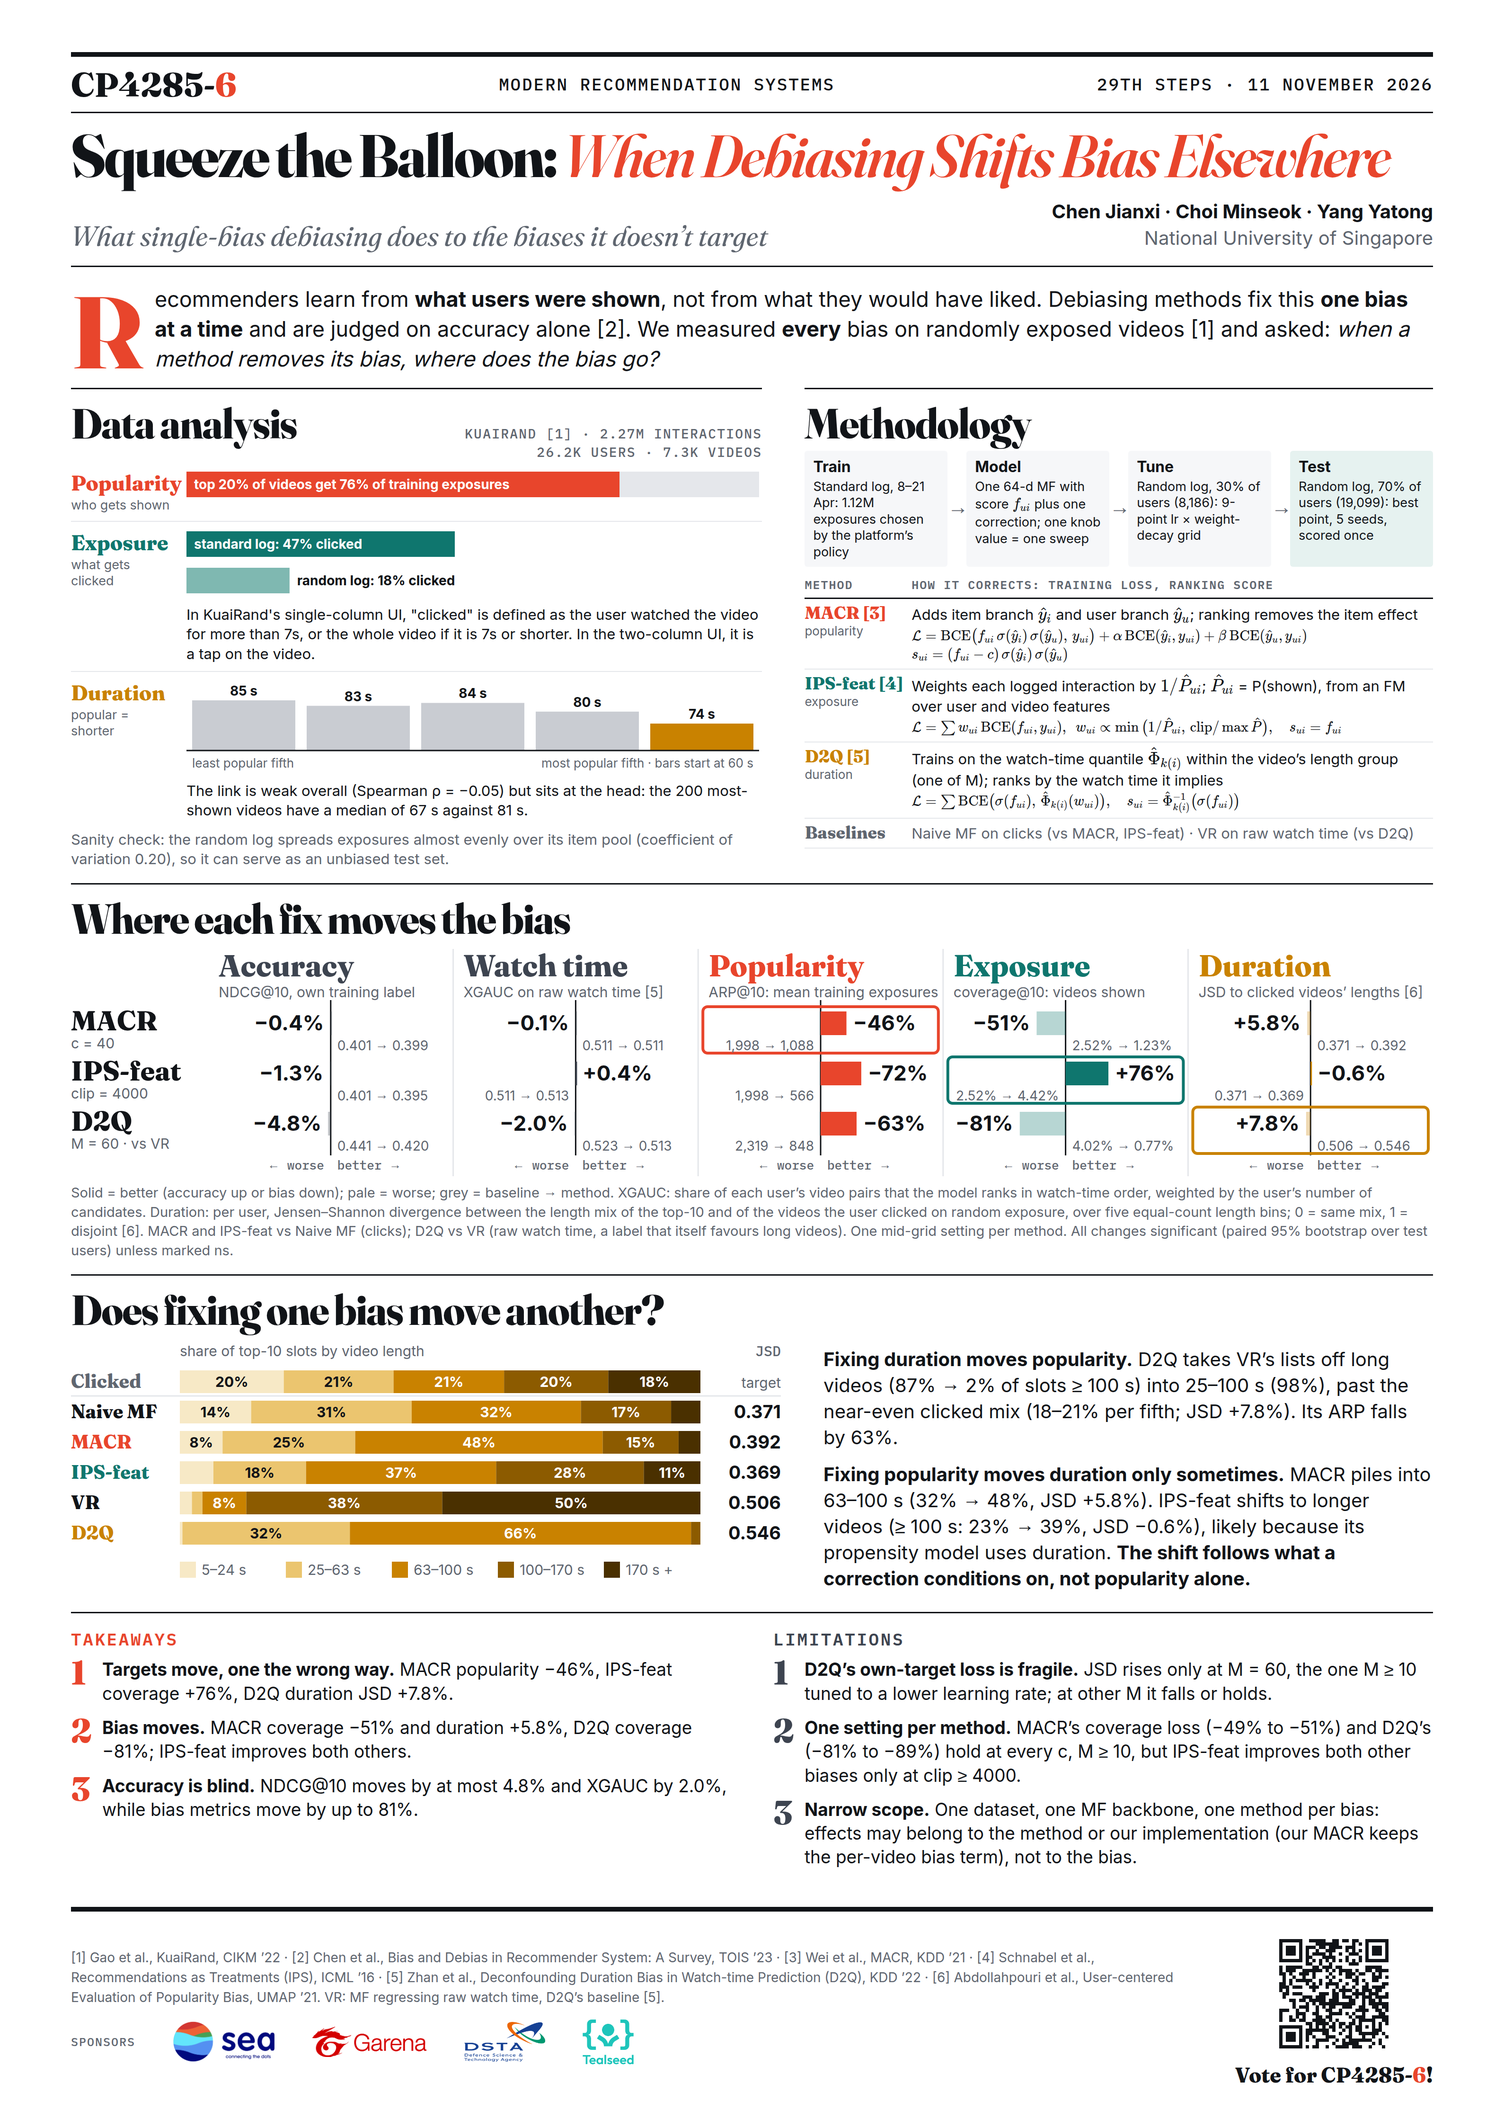
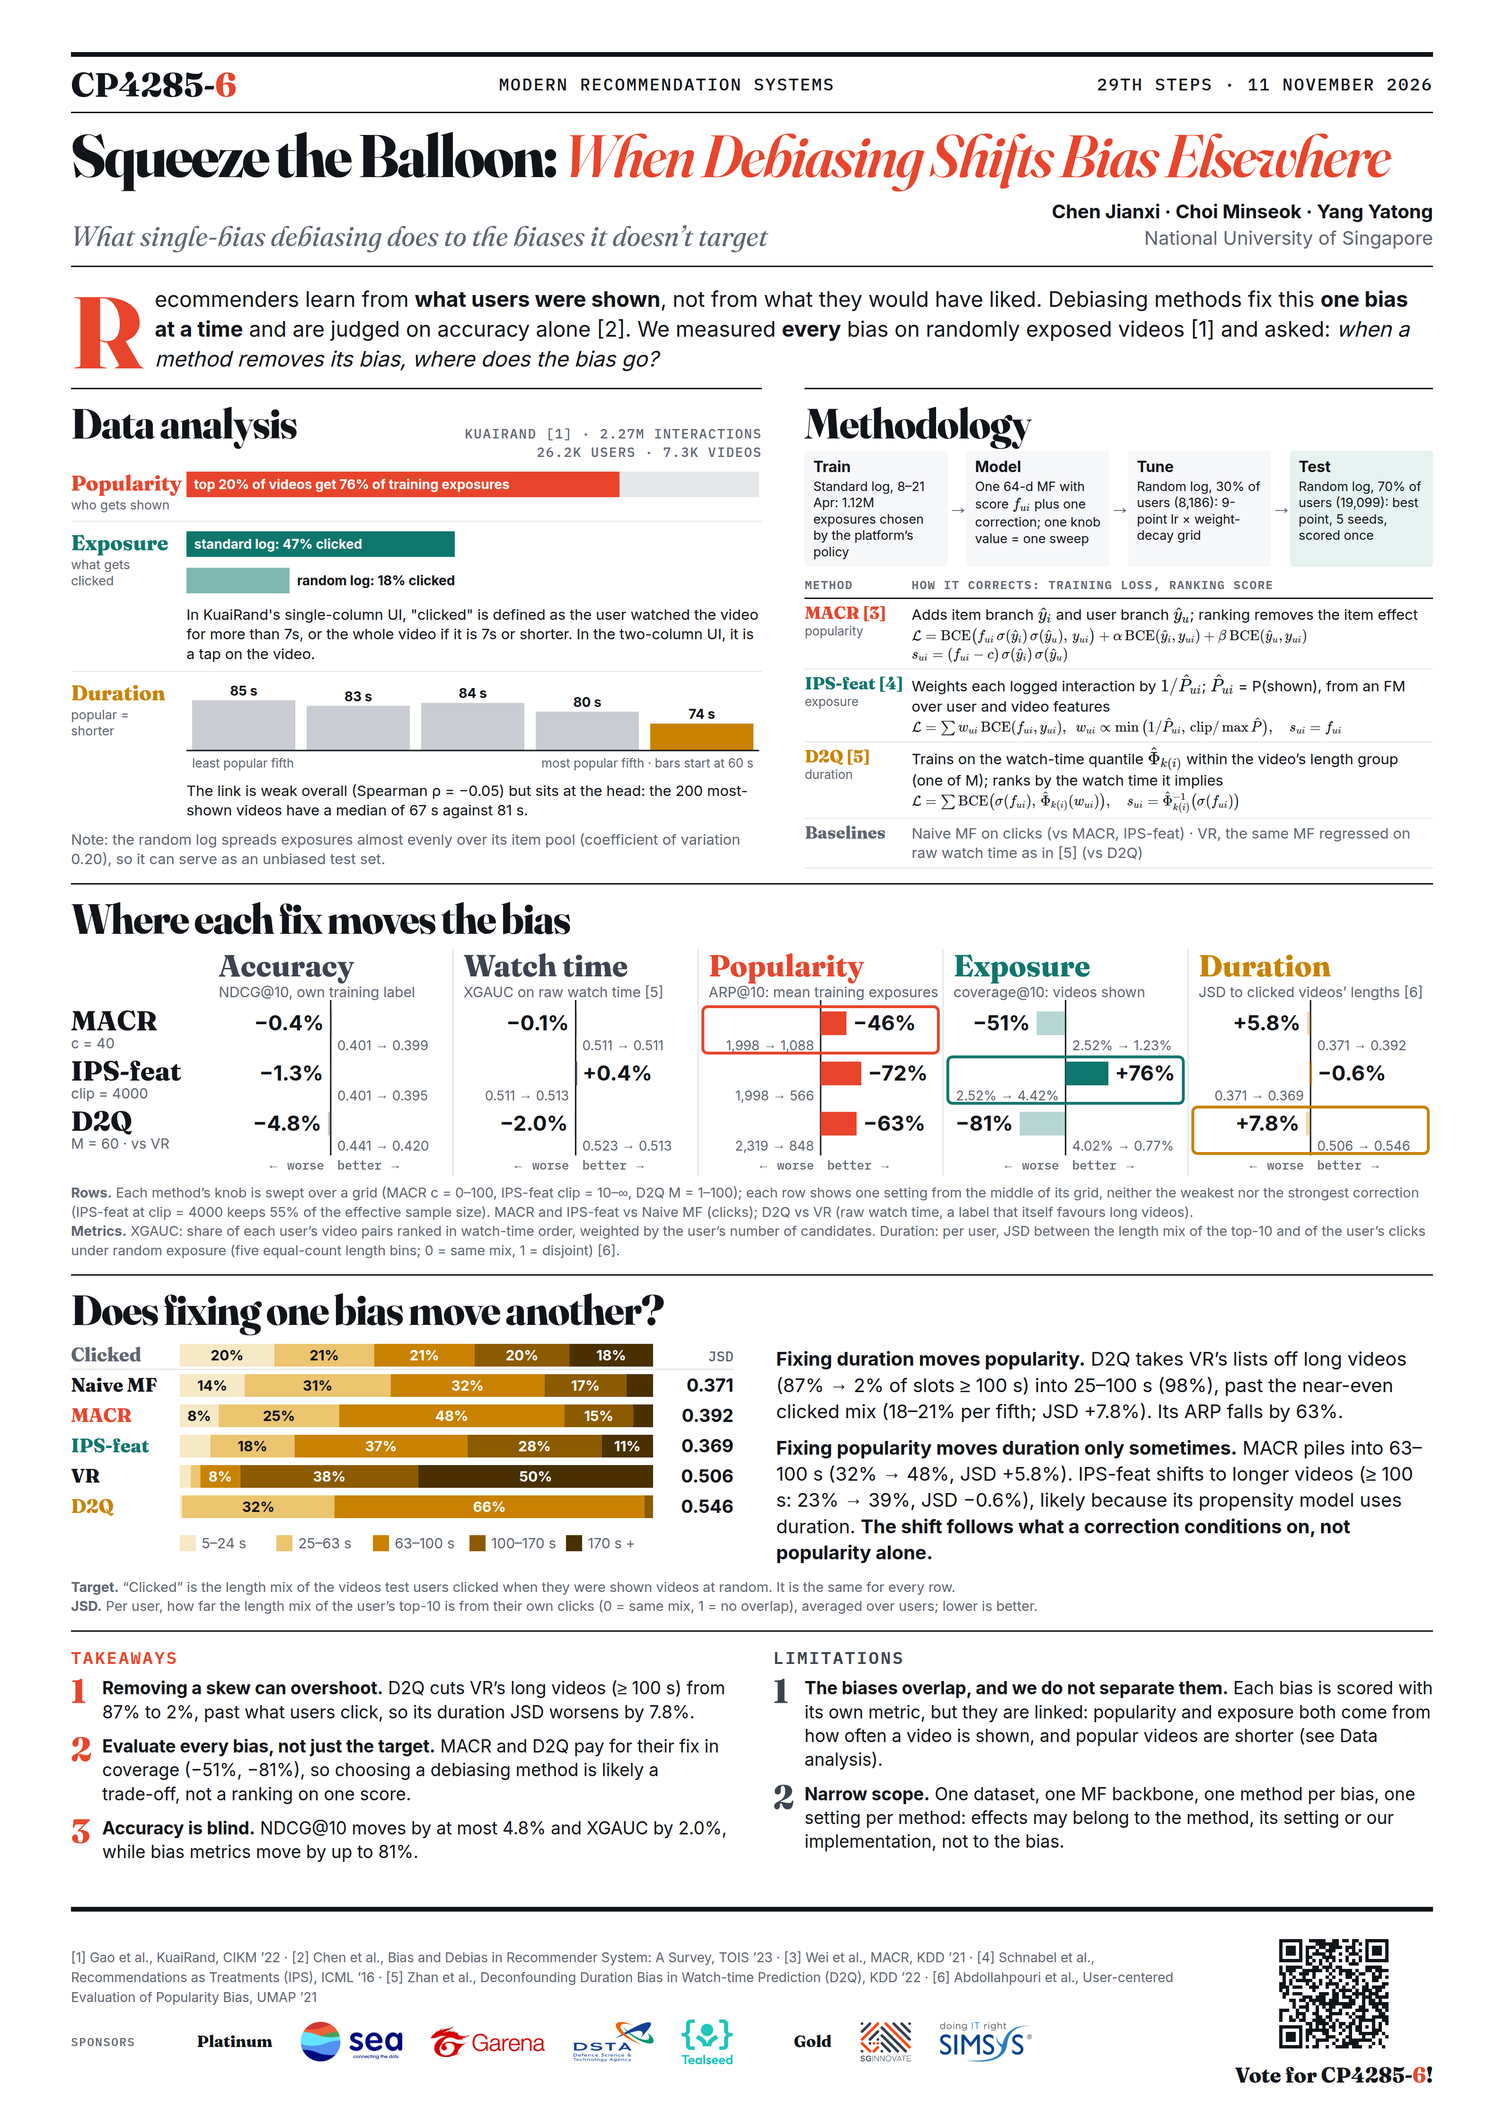
Revise poster captions, takeaways, limitations and sponsors
- Audit: caption split into Rows (knob grids, mid-grid setting) and Metrics.
- RQ3: chart header removed, JSD column label in the Clicked row, Target/JSD caption;
  chart narrowed to 1400px so the section fits.
- Methodology: VR defined in the Baselines row (moved from the footer).
- Takeaways: overshoot (D2Q vs VR) and evaluate-every-bias replace the first two.
- Limitations: bias overlap replaces D2Q fragility; one-setting caveat folded into Narrow scope.
- Footer: Platinum/Gold sponsor tiers, SG Innovate and Simsys logos.
- Data: "Sanity check" note renamed to "Note".
- poster.png re-rendered at 3178x4494.

diff --git a/.presentation/poster/footer.html b/.presentation/poster/footer.html
@@ -1,14 +1,18 @@
 <style>
   footer { margin-top: auto; display: grid; grid-template-columns: 1fr auto; gap: 70px; align-items: center; border-top: 10px solid var(--rule); padding-top: 30px; }
   .refs { font-size: 28px; color: var(--sub); line-height: 1.5; }
-  .sponsors { display: flex; align-items: center; gap: 80px; margin-top: 26px; }
+  .sponsors { display: flex; align-items: center; gap: 130px; margin-top: 26px; }
   .sponsors .mono { font-size: 25px; letter-spacing: .08em; text-transform: uppercase; color: var(--sub); }
+  .sponsors .tier { display: flex; align-items: center; gap: 60px; }
+  .sponsors .tier b { font-family: Fraunces; font-weight: 800; font-size: 34px; }
   .sponsors img { display: block; }
-  /* heights equalise the visible marks; negative margins cancel the transparent padding baked into two of the files */
+  /* heights equalise the visible marks; negative margins cancel the transparent padding baked into some of the files */
   #sp-dsta { height: 84px; }
   #sp-garena { height: 64px; }
   #sp-sea { height: 117px; margin: -17px -10px; }
   #sp-tealseed { height: 150px; margin: -28px; }
+  #sp-sginnovate { height: 84px; }
+  #sp-simsys { height: 144px; margin: -32px -2px -28px -19px; }
   .qr { display: flex; flex-direction: column; align-items: center; gap: 6px; }
   .qr img { display: block; width: 287px; height: 287px; }
   .qr .vote { font-family: Fraunces; font-weight: 800; font-size: 44px; line-height: 1; white-space: nowrap; }
@@ -18,12 +22,18 @@
 <!-- image paths resolve against v3-poster.html, not this file -->
 <footer>
   <div>
-    <div class="refs">[1] Gao et al., KuaiRand, CIKM ’22 · [2] Chen et al., Bias and Debias in Recommender System: A Survey, TOIS ’23 · [3] Wei et al., MACR, KDD ’21 · [4] Schnabel et al., Recommendations as Treatments (IPS), ICML ’16 · [5] Zhan et al., Deconfounding Duration Bias in Watch-time Prediction (D2Q), KDD ’22 · [6] Abdollahpouri et al., User-centered Evaluation of Popularity Bias, UMAP ’21. VR: MF regressing raw watch time, D2Q’s baseline [5].</div>
+    <div class="refs">[1] Gao et al., KuaiRand, CIKM ’22 · [2] Chen et al., Bias and Debias in Recommender System: A Survey, TOIS ’23 · [3] Wei et al., MACR, KDD ’21 · [4] Schnabel et al., Recommendations as Treatments (IPS), ICML ’16 · [5] Zhan et al., Deconfounding Duration Bias in Watch-time Prediction (D2Q), KDD ’22 · [6] Abdollahpouri et al., User-centered Evaluation of Popularity Bias, UMAP ’21</div>
     <div class="sponsors"><span class="mono">Sponsors</span>
-      <img id="sp-sea" src="assets/sponsor-sea-group.png" alt="Sea">
-      <img id="sp-garena" src="assets/sponsor-garena.png" alt="Garena">
-      <img id="sp-dsta" src="assets/sponsor-dsta.png" alt="DSTA">
-      <img id="sp-tealseed" src="assets/sponsor-tealseed.png" alt="Tealseed">
+      <div class="tier"><b>Platinum</b>
+        <img id="sp-sea" src="assets/sponsor-sea-group.png" alt="Sea">
+        <img id="sp-garena" src="assets/sponsor-garena.png" alt="Garena">
+        <img id="sp-dsta" src="assets/sponsor-dsta.png" alt="DSTA">
+        <img id="sp-tealseed" src="assets/sponsor-tealseed.png" alt="Tealseed">
+      </div>
+      <div class="tier"><b>Gold</b>
+        <img id="sp-sginnovate" src="assets/sponsor-sg-innovate.png" alt="SG Innovate">
+        <img id="sp-simsys" src="assets/sponsor-symsis.png" alt="Simsys">
+      </div>
     </div>
   </div>
   <div class="qr"><img src="assets/qr-steps-vote.svg" alt="QR code: uvents.nus.edu.sg/event/29th-steps/vote"><div class="vote">Vote for CP4285-<em>6</em>!</div></div>

diff --git a/.presentation/poster/rq3.html b/.presentation/poster/rq3.html
@@ -1,5 +1,5 @@
 <style>
-  .rq3 { display: grid; grid-template-columns: 1500px 1fr; gap: 90px; align-items: center; }
+  .rq3 { display: grid; grid-template-columns: 1400px 1fr; gap: 90px; align-items: center; }
   .rq3 p { font-size: 40px; line-height: 1.38; margin-bottom: 22px; }
   .rq3 p:last-child { margin-bottom: 0; }
 </style>
@@ -10,6 +10,7 @@
     <div id="lengths"></div>
     <div id="lengths-text"></div>
   </div>
+  <div class="note" style="margin-top:14px"><b>Target.</b> “Clicked” is the length mix of the videos test users clicked when they were shown videos at random. It is the same for every row.<br><b>JSD.</b> Per user, how far the length mix of the user’s top-10 is from their own clicks (0 = same mix, 1 = no overlap), averaged over users; lower is better.</div>
 </section>
 
 <script>
@@ -23,11 +24,9 @@
     ["Naive MF", SH(naive, "list"), COL.ink, naive], ["MACR", SH(ROWS[0].r, "list"), COL.pop, ROWS[0].r], ["IPS-feat", SH(ROWS[1].r, "list"), COL.exp, ROWS[1].r],
     ["VR", SH(vr, "list"), COL.ink, vr], ["D2Q", SH(ROWS[2].r, "list"), COL.dur, ROWS[2].r],
   ];
-  const w = 1500, rowH = 64, top = 56, labelW = 230, jsdW = 150, bh = 48, x0 = labelW, x1 = w - jsdW, legY = top + items.length * rowH + 28;
+  const w = 1400, rowH = 64, top = 0, labelW = 230, jsdW = 150, bh = 48, x0 = labelW, x1 = w - jsdW, legY = top + items.length * rowH + 28;
   const h = legY + 60;
   let s = `<svg width="${w}" height="${h}" viewBox="0 0 ${w} ${h}">`;
-  s += T(x0, top - 22, "share of top-10 slots by video length", { size: 30, fill: COL.sub });
-  s += T(w, top - 22, "JSD", { size: 30, fill: COL.sub, anchor: "end", family: "IBM Plex Mono" });
   items.forEach(([l, sh, c, r], i) => {
     const y = top + i * rowH + (rowH - bh) / 2;
     s += T(0, y + bh / 2 + 13, l, { size: 40, fill: c, weight: 800, family: "Fraunces" });
@@ -38,7 +37,7 @@
       if (v >= 0.07) s += T(x + bw / 2, y + bh / 2 + 11, (100 * v).toFixed(0) + "%", { size: 30, weight: 700, anchor: "middle", fill: INK[j] });
       x += bw;
     });
-    s += r ? T(w, y + bh / 2 + 13, JSD(r).toFixed(3), { size: 38, weight: 700, anchor: "end" }) : T(w, y + bh / 2 + 13, "target", { size: 30, fill: COL.sub, anchor: "end" });
+    s += r ? T(w, y + bh / 2 + 13, JSD(r).toFixed(3), { size: 38, weight: 700, anchor: "end" }) : T(w, y + bh / 2 + 13, "JSD", { size: 30, fill: COL.sub, anchor: "end", family: "IBM Plex Mono" });
     if (i === 0) s += `<line x1="0" y1="${top + rowH - 2}" x2="${w}" y2="${top + rowH - 2}" stroke="${COL.soft}" stroke-width="3"/>`;
   });
   const lw = (x1 - x0) / 5;

diff --git a/.presentation/poster/limitations.html b/.presentation/poster/limitations.html
@@ -8,25 +8,9 @@
 </div>
 
 <script>
-// ---- limitations: how far the one-setting-per-method audit generalises across each knob grid ----
-{
-  const sweep = (i) => S.filter((r) => r.method === ROWS[i].m).map((r) => ({ r, knob: r.knob, c: (key) => cell({ ...ROWS[i], r }, COLS.find((x) => x.key === key)) }));
-  const from10 = (i) => sweep(i).filter((s) => Number(s.knob) >= 10);   // MACR c = 0 and D2Q M = 1 apply no correction
-  const span = (vs) => { const s = [...vs].sort((x, y) => Math.abs(x) - Math.abs(y)); return `${pc(s[0])} to ${pc(s[s.length - 1])}`; };
-  const knob = (k) => (k === "inf" ? "∞" : String(k));
-
-  // D2Q: its own target (duration JSD) worsens only at the setting shown, which also tuned to a different learning rate
-  const d2q = from10(2), shown = d2q.find((s) => String(s.knob) === String(ROWS[2].k));
-  const lrSide = d2q.every((s) => s === shown || s.r.lr > shown.r.lr) ? "lower" : "different";
-
-  // IPS-feat: smallest clip from which both other biases improve significantly at every larger clip
-  const ips = sweep(1), good = (s) => ["pop", "dur"].every((b) => s.c(b).sig && s.c(b).imp > 0);
-  const from = ips.findIndex((_, j) => ips.slice(j).every(good));
-
-  document.getElementById("limitations").innerHTML = [
-    `<b>D2Q’s own-target loss is fragile.</b> JSD rises only at M = ${ROWS[2].k}, the one M ≥ 10 tuned to a ${lrSide} learning rate; at other M it falls or holds.`,
-    `<b>One setting per method.</b> MACR’s coverage loss (${span(from10(0).map((s) => s.c("exp").p))}) and D2Q’s (${span(from10(2).map((s) => s.c("exp").p))}) hold at every c, M ≥ 10, but IPS-feat improves both other biases only at clip ≥ ${knob(ips[from].knob)}.`,
-    `<b>Narrow scope.</b> One dataset, one MF backbone, one method per bias: effects may belong to the method or our implementation (our MACR keeps the per-video bias term), not to the bias.`,
-  ].map((t) => `<li><span>${t}</span></li>`).join("");
-}
+// ---- limitations ----
+document.getElementById("limitations").innerHTML = [
+  `<b>The biases overlap, and we do not separate them.</b> Each bias is scored with its own metric, but they are linked: popularity and exposure both come from how often a video is shown, and popular videos are shorter (see Data analysis).`,
+  `<b>Narrow scope.</b> One dataset, one MF backbone, one method per bias, one setting per method: effects may belong to the method, its setting or our implementation, not to the bias.`,
+].map((t) => `<li><span>${t}</span></li>`).join("");
 </script>

diff --git a/.presentation/poster/audit.html b/.presentation/poster/audit.html
@@ -38,7 +38,13 @@
     s += T(0, y + 92, row.set, { size: 30, fill: COL.sub });
   });
   document.getElementById("audit").innerHTML = s + "</svg>";
+  const knob = (k) => (k === "inf" ? "∞" : String(k));
+  const grids = ROWS.map((row) => {
+    const ks = S.filter((r) => r.method === row.m).map((r) => r.knob);
+    return `${row.name} ${row.set.split(" = ")[0]} = ${knob(ks[0])}–${knob(ks[ks.length - 1])}`;
+  }).join(", ");
   document.getElementById("audit-note").innerHTML =
-    `Solid = better (accuracy up or bias down); pale = worse; grey = baseline → method. XGAUC: share of each user’s video pairs that the model ranks in watch-time order, weighted by the user’s number of candidates. Duration: per user, Jensen–Shannon divergence between the length mix of the top-10 and of the videos the user clicked on random exposure, over five equal-count length bins; 0 = same mix, 1 = disjoint [6]. MACR and IPS-feat vs Naive MF (clicks); D2Q vs VR (raw watch time, a label that itself favours long videos). One mid-grid setting per method. All changes significant (paired 95% bootstrap over test users) unless marked ns.`;
+    `<b>Rows.</b> Each method’s knob is swept over a grid (${grids}); each row shows one setting from the middle of its grid, neither the weakest nor the strongest correction (IPS-feat at clip = ${ROWS[1].k} keeps ${Math.round(100 * ROWS[1].r.diag.ips_ess_share)}% of the effective sample size). MACR and IPS-feat vs Naive MF (clicks); D2Q vs VR (raw watch time, a label that itself favours long videos).<br>` +
+    `<b>Metrics.</b> XGAUC: share of each user’s video pairs ranked in watch-time order, weighted by the user’s number of candidates. Duration: per user, JSD between the length mix of the top-10 and of the user’s clicks under random exposure (five equal-count length bins; 0 = same mix, 1 = disjoint) [6].`;
 }
 </script>

diff --git a/.presentation/poster/takeaways.html b/.presentation/poster/takeaways.html
@@ -9,9 +9,10 @@
   const c = (i, key) => cell(ROWS[i], COLS.find((x) => x.key === key));
   const accMax = (j) => Math.max(...ROWS.map((row) => Math.abs(cell(row, COLS[j]).p)));
   const biasMax = Math.max(...ROWS.flatMap((_, i) => ["pop", "exp", "dur"].map((b) => Math.abs(c(i, b).p))));
+  const long = (r) => 100 * (mean(r, "dur_bin_share@10[click].list_3") + mean(r, "dur_bin_share@10[click].list_4"));
   document.getElementById("takeaways").innerHTML = [
-    `<b>Targets move, one the wrong way.</b> MACR popularity ${pc(c(0, "pop").p)}, IPS-feat coverage ${pc(c(1, "exp").p)}, D2Q duration JSD ${pc(c(2, "dur").p)}.`,
-    `<b>Bias moves.</b> MACR coverage ${pc(c(0, "exp").p)} and duration ${pc(c(0, "dur").p)}, D2Q coverage ${pc(c(2, "exp").p)}; IPS-feat improves both others.`,
+    `<b>Removing a skew can overshoot.</b> D2Q cuts VR’s long videos (≥ ${F.dur_bin_range_s[3][0].toFixed(0)} s) from ${long(vr).toFixed(0)}% to ${long(ROWS[2].r).toFixed(0)}%, past what users click, so its duration JSD worsens by ${Math.abs(c(2, "dur").p).toFixed(1)}%.`,
+    `<b>Evaluate every bias, not just the target.</b> MACR and D2Q pay for their fix in coverage (${pc(c(0, "exp").p)}, ${pc(c(2, "exp").p)}), so choosing a debiasing method is likely a <span style="white-space:nowrap">trade-off</span>, not a ranking on one score.`,
     `<b>Accuracy is blind.</b> NDCG@10 moves by at most ${accMax(0).toFixed(1)}% and XGAUC by ${accMax(1).toFixed(1)}%, while bias metrics move by up to ${biasMax.toFixed(0)}%.`,
   ].map((t) => `<li><span>${t}</span></li>`).join("");
 }

diff --git a/.presentation/poster/methodology.html b/.presentation/poster/methodology.html
@@ -25,7 +25,7 @@
         <div class="eq"><span class="tex">\mathcal L=\textstyle\sum w_{ui}\,\mathrm{BCE}(f_{ui},y_{ui}),\ \ w_{ui}\propto\min\big(1/\hat P_{ui},\,\mathrm{clip}/\max\hat P\big),\quad s_{ui}=f_{ui}</span></div></td></tr>
       <tr><td style="color:var(--dur)">D2Q [5]<small>duration</small></td><td>Trains on the watch-time quantile <span class="tex">\hat\Phi_{k(i)}</span> within the video’s length group (one of M); ranks by the watch time it implies
         <div class="eq"><span class="tex">\mathcal L=\textstyle\sum\mathrm{BCE}\big(\sigma(f_{ui}),\,\hat\Phi_{k(i)}(w_{ui})\big),\quad s_{ui}=\hat\Phi^{-1}_{k(i)}\big(\sigma(f_{ui})\big)</span></div></td></tr>
-      <tr class="base"><td>Baselines</td><td>Naive MF on clicks (vs MACR, IPS-feat) · VR on raw watch time (vs D2Q)</td></tr>
+      <tr class="base"><td>Baselines</td><td>Naive MF on clicks (vs MACR, IPS-feat) · VR, the same MF regressed on raw watch time as in [5] (vs D2Q)</td></tr>
     </tbody>
   </table>
 </div>

diff --git a/.presentation/poster/data.html b/.presentation/poster/data.html
@@ -49,6 +49,6 @@
   ];
   document.getElementById("evidence").innerHTML = rows.map(([t, c, sub, chart, text]) =>
     `<div class="ev"><div class="tag" style="color:${c}">${t}<small>${sub}</small></div><div>${chart}${text ? `<p>${text}</p>` : ""}</div></div>`).join("") +
-    `<p class="note" style="margin-top:4px">Sanity check: the random log spreads exposures almost evenly over its item pool (coefficient of variation ${F.random_item_cv.toFixed(2)}), so it can serve as an unbiased test set.</p>`;
+    `<p class="note" style="margin-top:4px">Note: the random log spreads exposures almost evenly over its item pool (coefficient of variation ${F.random_item_cv.toFixed(2)}), so it can serve as an unbiased test set.</p>`;
 }
 </script>
